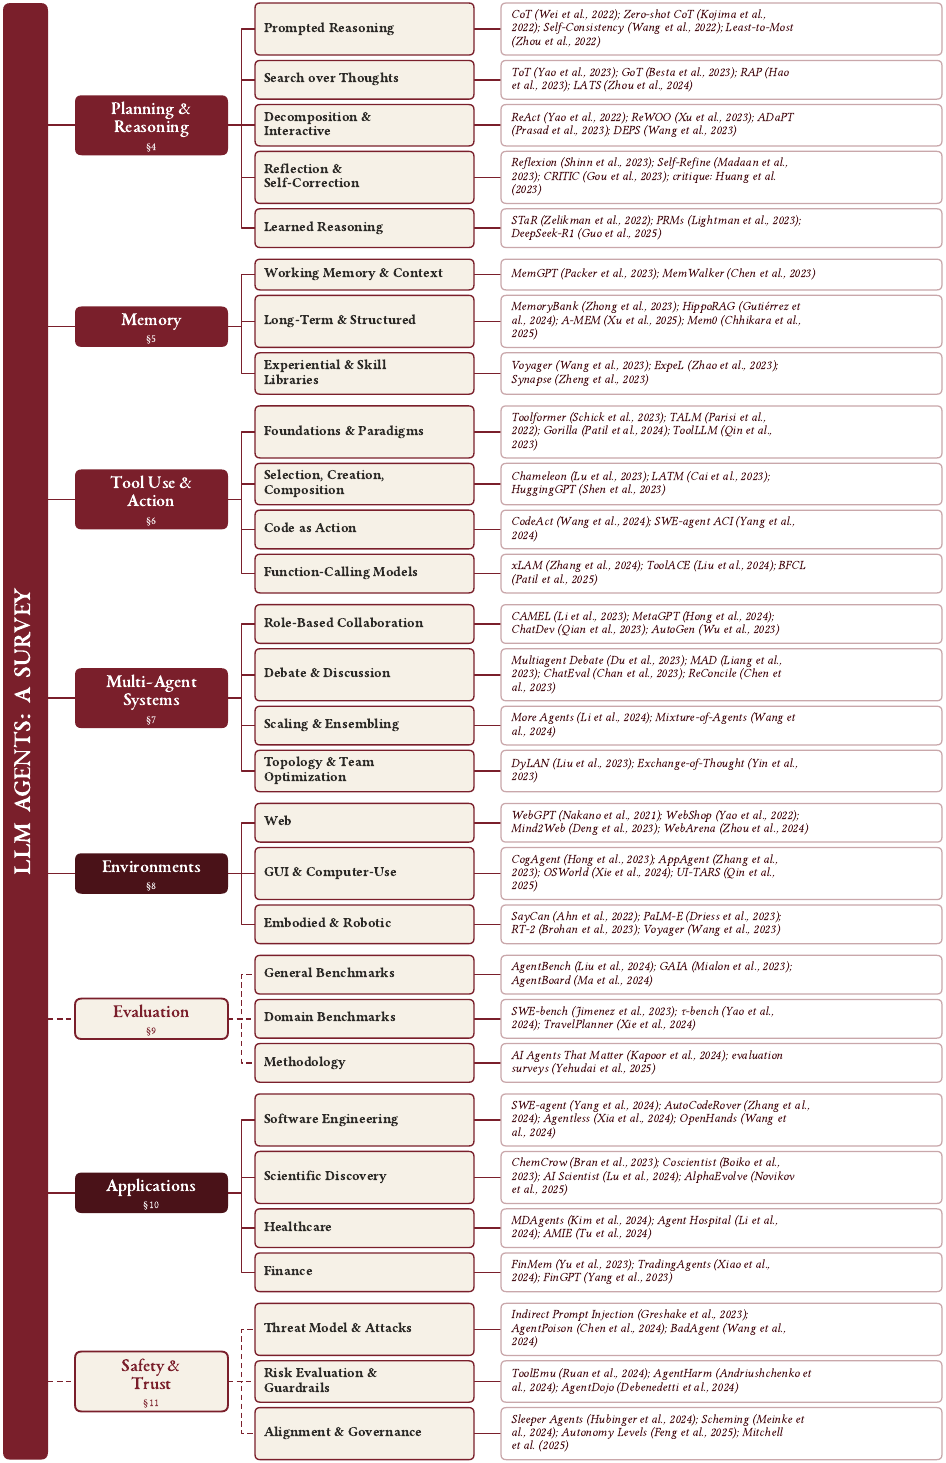
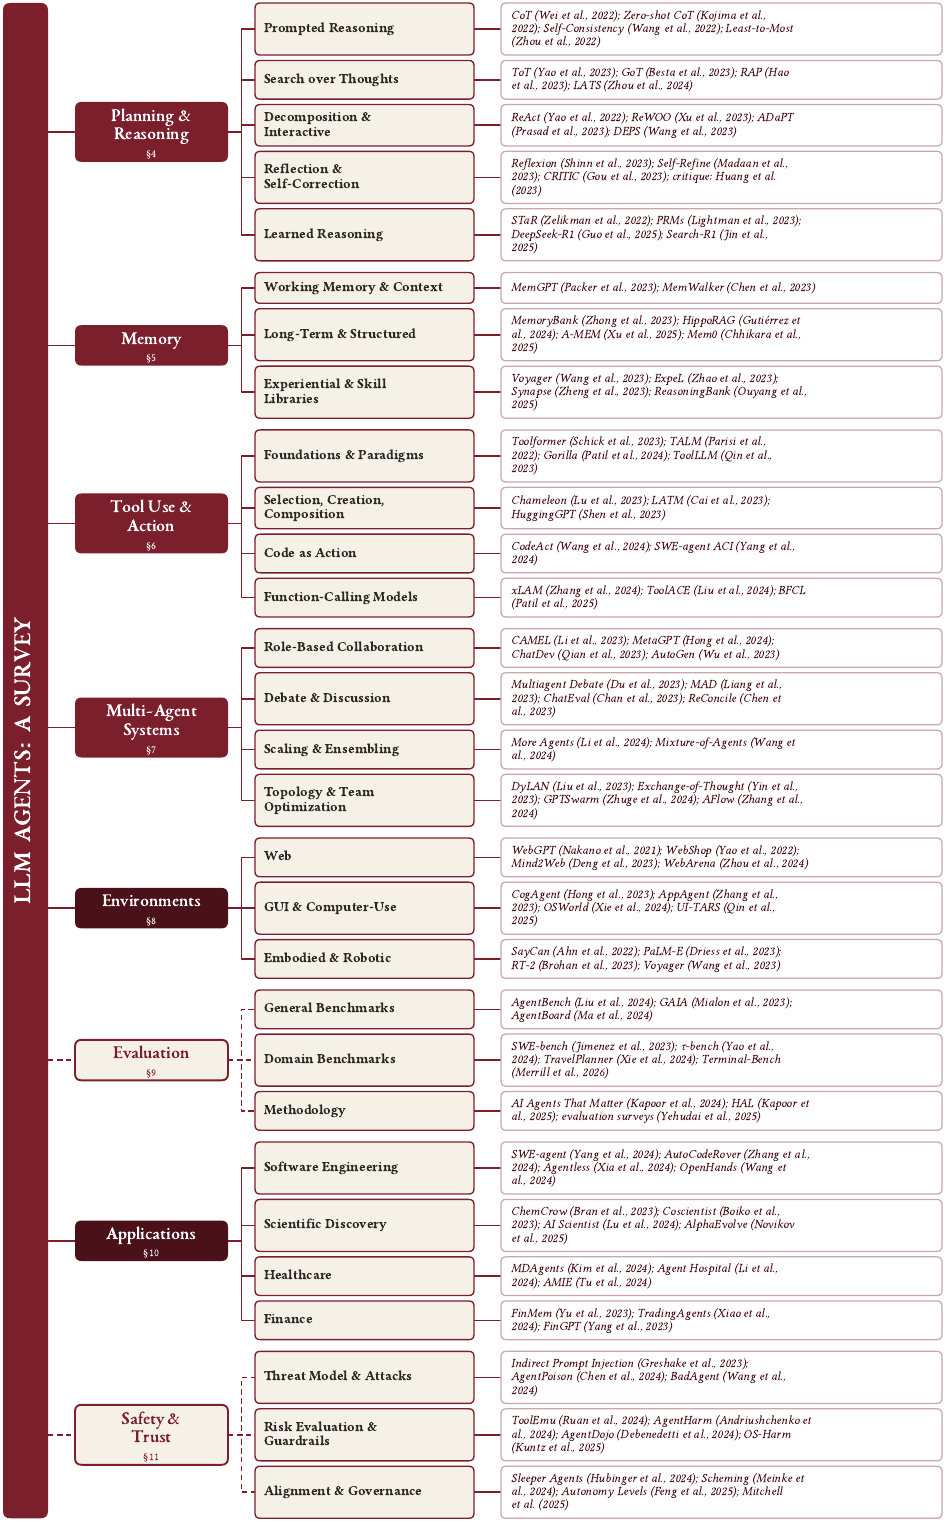
README readability overhaul: collapse each section into a <details> toggle (211 papers), add legend + back-to-top links + curated-vs-cited(228) note; rename Citing -> Citation with month=jul; explicit July 2026 in Updates; refresh taxonomy image to current survey Figure 4; en-dash -> hyphen

diff --git a/README.md b/README.md
@@ -17,7 +17,9 @@ Companion repository to the survey <i>“LLM Agents: A Survey”</i></p>
 
 This repository collects must-read papers on **LLM-based agents**: language models equipped with planning, memory, tool use, and multi-agent coordination to pursue goals over long horizons. Papers follow the taxonomy of the accompanying survey, covering the core components of an agent, the environments and applications they are deployed in, and the cross-cutting concerns of evaluation and safety. Each entry links to the paper and, where an official implementation exists, to its code.
 
-> ⭐ marks the [Starter Kit](#starter-kit): the ten papers to read first.
+This is a **curated selection of 211 papers**; the survey itself cites 228 references. Sections are collapsed by default. Click **Show N papers** to expand.
+
+> **Legend:** ⭐ = [Starter Kit](#starter-kit) pick (read these first) · `[code]` = link to an official implementation.
 
 <a id="starter-kit"></a>
 ## ⭐ Starter Kit
@@ -59,7 +61,10 @@ New to the area? These ten papers give you the backbone of the field.
 
 <a id="surveys"></a>
 ### 📚 Surveys & Position Papers (27)
-*Corresponds to §1–§3 (Introduction, Background, Taxonomy).*
+*Corresponds to §1-§3 (Introduction, Background, Taxonomy).*
+
+<details>
+<summary><b>Show 27 papers</b></summary>
 
 - **[A Survey on Large Language Model based Autonomous Agents](https://arxiv.org/abs/2308.11432)** (Wang et al., arXiv 2023) - *The canonical, most-cited general-purpose LLM-agent survey.* ⭐ [[code](https://github.com/Paitesanshi/LLM-Agent-Survey)]
 - **[The Rise and Potential of Large Language Model Based Agents: A Survey](https://arxiv.org/abs/2309.07864)** (Xi et al., arXiv 2023) - *Co-foundational with Wang et al. 2023 as one of the two seminal general surveys.* [[code](https://github.com/WooooDyy/LLM-Agent-Paper-List)]
@@ -89,9 +94,16 @@ New to the area? These ten papers give you the backbone of the field.
 - **[Deep Research Agents: A Systematic Examination and Roadmap](https://arxiv.org/abs/2506.18096)** (Huang et al., arXiv 2025) - *First systematic survey of long-horizon autonomous research agents (search, tool use, report synthesis).*
 - **[A Survey of AI Agent Protocols](https://arxiv.org/abs/2504.16736)** (Yang et al., arXiv 2025) - *Maps the emerging protocol layer (MCP, A2A, and successors) and proposes evaluation dimensions for agent interoperability standards.*
 
+</details>
+
+<sub><a href="#contents">↑ Back to Contents</a></sub>
+
 <a id="architectures"></a>
 ### 🏗️ Agent Architectures & Frameworks (18)
 *Corresponds to §2 (Background) and the running examples throughout.*
+
+<details>
+<summary><b>Show 18 papers</b></summary>
 
 - **[Auto-GPT for Online Decision Making: Benchmarks and Additional Opinions](https://arxiv.org/abs/2306.02224)** (Yang et al., arXiv 2023) - *Only peer-reviewed-adjacent empirical study of the widely-influential (but paper-less) AutoGPT autonomous-agent design pattern.* [[code](https://github.com/younghuman/LLMAgent)]
 - **[AgentBench: Evaluating LLMs as Agents](https://arxiv.org/abs/2308.03688)** (Liu et al., ICLR 2024) - *The standard reference benchmark for measuring general single-agent capability across heterogeneous environments.* ⭐ [[code](https://github.com/THUDM/AgentBench)]
@@ -112,11 +124,18 @@ New to the area? These ten papers give you the backbone of the field.
 - **[Gemini 2.5: Pushing the Frontier with Advanced Reasoning, Multimodality, Long Context, and Next Generation Agentic Capabilities](https://arxiv.org/abs/2507.06261)** (Comanici et al., arXiv 2025) - *Frontier model report that treats agentic tool use and computer operation as headline capabilities.*
 - **[Kimi K2: Open Agentic Intelligence](https://arxiv.org/abs/2507.20534)** (Kimi Team, arXiv 2025) - *Flagship open model built explicitly around agentic post-training at scale.* [[code](https://github.com/MoonshotAI/Kimi-K2)]
 
+</details>
+
+<sub><a href="#contents">↑ Back to Contents</a></sub>
+
 ## 🧱 Part I: Core Components
 
 <a id="planning"></a>
 ### 🧠 Planning & Reasoning (21)
 *Corresponds to §4 (Planning and Reasoning).*
+
+<details>
+<summary><b>Show 21 papers</b></summary>
 
 - **[Chain-of-Thought Prompting Elicits Reasoning in Large Language Models](https://arxiv.org/abs/2201.11903)** (Wei et al., NeurIPS 2022) - *The foundational technique underlying virtually all LLM-agent reasoning/planning modules; the starting point for the whole CoT/ToT/ReAct lineage.*
 - **[Self-Consistency Improves Chain of Thought Reasoning in Language Models](https://arxiv.org/abs/2203.11171)** (Wang et al., ICLR 2023) - *Standard inference-time ensembling/verification strategy widely reused inside agent reasoning and planning pipelines.*
@@ -140,9 +159,16 @@ New to the area? These ten papers give you the backbone of the field.
 - **[Search-R1: Training LLMs to Reason and Leverage Search Engines with Reinforcement Learning](https://arxiv.org/abs/2503.09516)** (Jin et al., arXiv 2025) - *Canonical agentic-RL result: the model learns to interleave search-engine calls with its own reasoning from outcome rewards alone.* [[code](https://github.com/PeterGriffinJin/Search-R1)]
 - **[ReTool: Reinforcement Learning for Strategic Tool Use in LLMs](https://arxiv.org/abs/2504.11536)** (Feng et al., arXiv 2025) - *RL that teaches a reasoning model when and how to invoke a code interpreter mid-derivation.*
 
+</details>
+
+<sub><a href="#contents">↑ Back to Contents</a></sub>
+
 <a id="memory"></a>
 ### 💾 Memory (18)
 *Corresponds to §5 (Memory).*
+
+<details>
+<summary><b>Show 18 papers</b></summary>
 
 - **[RET-LLM: Towards a General Read-Write Memory for Large Language Models](https://arxiv.org/abs/2305.14322)** (Modarressi et al., arXiv 2023) - *Early and influential structured/triplet-based read-write memory design, a precursor to graph- and KG-based agent memory systems.*
 - **[MemoryBank: Enhancing Large Language Models with Long-Term Memory](https://arxiv.org/abs/2305.10250)** (Zhong et al., AAAI 2024) - *One of the first systems to bring a psychologically grounded (human-memory-inspired) forgetting/consolidation mechanism into LLM agent memory.* [[code](https://github.com/zhongwanjun/MemoryBank-SiliconFriend)]
@@ -163,9 +189,16 @@ New to the area? These ten papers give you the backbone of the field.
 - **[LongMemEval: Benchmarking Chat Assistants on Long-Term Interactive Memory](https://arxiv.org/abs/2410.10813)** (Wu et al., ICLR 2025) - *Decomposes long-term interactive memory into five separately testable abilities.* [[code](https://github.com/xiaowu0162/LongMemEval)]
 - **[ReasoningBank: Scaling Agent Self-Evolving with Reasoning Memory](https://arxiv.org/abs/2509.25140)** (Ouyang et al., arXiv 2025) - *Distills strategy-level memory from both successful and failed trajectories so an agent self-evolves over a task stream.*
 
+</details>
+
+<sub><a href="#contents">↑ Back to Contents</a></sub>
+
 <a id="tools"></a>
 ### 🔧 Tool Use (17)
 *Corresponds to §6 (Tool Use and Action Execution).*
+
+<details>
+<summary><b>Show 17 papers</b></summary>
 
 - **[TALM: Tool Augmented Language Models](https://arxiv.org/abs/2205.12255)** (Parisi et al., arXiv 2022) - *Early, influential formulation of self-supervised bootstrapping for tool use in LMs, directly anticipating Toolformer's self-supervised approach.*
 - **[API-Bank: A Comprehensive Benchmark for Tool-Augmented LLMs](https://arxiv.org/abs/2304.08244)** (Li et al., EMNLP 2023) - *One of the earliest and most cited dedicated benchmarks for evaluating and training tool-augmented dialogue LLMs.* [[code](https://github.com/AlibabaResearch/DAMO-ConvAI)]
@@ -185,9 +218,16 @@ New to the area? These ten papers give you the backbone of the field.
 - **[The Berkeley Function Calling Leaderboard (BFCL): From Tool Use to Agentic Evaluation of Large Language Models](https://openreview.net/forum?id=2GmDdhBdDk)** (Patil et al., ICML 2025) - *The de facto standard leaderboard/benchmark for comparing LLM function-calling and tool-use performance, referenced by nearly all subsequent function-calling papers.* [[code](https://github.com/ShishirPatil/gorilla)]
 - **[Model Context Protocol (MCP): Landscape, Security Threats, and Future Research Directions](https://arxiv.org/abs/2503.23278)** (Hou et al., arXiv 2025) - *Security analysis of the MCP ecosystem across the server lifecycle; the reference for protocol-layer supply-chain risk.*
 
+</details>
+
+<sub><a href="#contents">↑ Back to Contents</a></sub>
+
 <a id="multi-agent"></a>
 ### 🤝 Multi-Agent Systems (22)
 *Corresponds to §7 (Multi-Agent Systems).*
+
+<details>
+<summary><b>Show 22 papers</b></summary>
 
 - **[CAMEL: Communicative Agents for "Mind" Exploration of Large Language Model Society](https://arxiv.org/abs/2303.17760)** (Li et al., NeurIPS 2023) - *One of the earliest and most cited frameworks establishing autonomous agent-to-agent cooperation via role-play.* [[code](https://github.com/camel-ai/camel)]
 - **[Improving Factuality and Reasoning in Language Models through Multiagent Debate](https://arxiv.org/abs/2305.14325)** (Du et al., ICML 2024) - *Seminal multi-agent debate paper popularizing 'society of minds'-style debate as a test-time technique.* [[code](https://github.com/composable-models/llm_multiagent_debate)]
@@ -212,11 +252,18 @@ New to the area? These ten papers give you the backbone of the field.
 - **[Scaling Large Language Model-based Multi-Agent Collaboration](https://arxiv.org/abs/2406.07155)** (Qian et al., arXiv 2024) - *Scales collaboration to 1000+ agents in explicit topologies; irregular graphs outperform regular ones (a collaborative scaling result).*
 - **[AFlow: Automating Agentic Workflow Generation](https://arxiv.org/abs/2410.10762)** (Zhang et al., ICLR 2025) - *Searches over code-represented workflows to discover agentic pipelines automatically.*
 
+</details>
+
+<sub><a href="#contents">↑ Back to Contents</a></sub>
+
 ## 🌍 Part II: Agents in Context
 
 <a id="environments"></a>
 ### 🌐 Interactive Environments (23)
 *Corresponds to §8 (Agents in Interactive Environments).*
+
+<details>
+<summary><b>Show 23 papers</b></summary>
 
 - **[Do As I Can, Not As I Say: Grounding Language in Robotic Affordances](https://arxiv.org/abs/2204.01691)** (al., CoRL 2022) - *Foundational demonstration of LLM-as-planner grounded by real-world affordances for embodied robotic agents.* [[code](https://github.com/google-research/google-research/tree/master/saycan)]
 - **[Inner Monologue: Embodied Reasoning through Planning with Language Models](https://arxiv.org/abs/2207.05608)** (al., CoRL 2022) - *Established the closed-loop, feedback-grounded planning pattern underlying subsequent embodied/GUI agent architectures.*
@@ -242,9 +289,16 @@ New to the area? These ten papers give you the backbone of the field.
 - **[π0: A Vision-Language-Action Flow Model for General Robot Control](https://arxiv.org/abs/2410.24164)** (Black et al., arXiv 2024) - *Flow-matching action expert on a pretrained VLM, controlling many robot embodiments.* [[code](https://github.com/Physical-Intelligence/openpi)]
 - **[Tongyi DeepResearch Technical Report](https://arxiv.org/abs/2510.24701)** (Tongyi DeepResearch Team, arXiv 2025) - *Open end-to-end deep-research agent model for long-horizon web research and synthesis.* [[code](https://github.com/Alibaba-NLP/DeepResearch)]
 
+</details>
+
+<sub><a href="#contents">↑ Back to Contents</a></sub>
+
 <a id="applications"></a>
 ### 🚀 Applications (23)
 *Corresponds to §10 (Applications).*
+
+<details>
+<summary><b>Show 23 papers</b></summary>
 
 - **[AutoCodeRover: Autonomous Program Improvement](https://arxiv.org/abs/2404.05427)** (Zhang et al., arXiv 2024) - *One of the first cost-efficient autonomous program-repair agents grounded in structured code search.* [[code](https://github.com/nus-apr/auto-code-rover)]
 - **[Agentless: Demystifying LLM-based Software Engineering Agents](https://arxiv.org/abs/2407.01489)** (Xia et al., arXiv 2024) - *Influential counter-narrative showing simpler non-agentic pipelines can rival complex agents.* [[code](https://github.com/OpenAutoCoder/Agentless)]
@@ -270,11 +324,18 @@ New to the area? These ten papers give you the backbone of the field.
 - **[SWE-Lancer: Can Frontier LLMs Earn $1 Million from Real-World Freelance Software Engineering?](https://arxiv.org/abs/2502.12115)** (Miserendino et al., arXiv 2025) - *Prices coding-agent competence in real freelance dollars; frontier models leave most of the posted value unearned.* [[code](https://github.com/openai/SWELancer-Benchmark)]
 - **[AgentClinic: A Multimodal Agent Benchmark to Evaluate AI in Simulated Clinical Environments](https://arxiv.org/abs/2405.07960)** (Schmidgall et al., arXiv 2024) - *Multimodal benchmark of simulated clinical settings for doctor-patient agent interaction.*
 
+</details>
+
+<sub><a href="#contents">↑ Back to Contents</a></sub>
+
 ## ⚖️ Part III: Cross-Cutting Concerns
 
 <a id="evaluation"></a>
 ### 📊 Evaluation & Benchmarks (15)
 *Corresponds to §9 (Evaluation and Benchmarks).*
+
+<details>
+<summary><b>Show 15 papers</b></summary>
 
 - **[GAIA: a benchmark for General AI Assistants](https://arxiv.org/abs/2311.12983)** (Mialon et al., ICLR 2024) - *Reference benchmark for generalist, tool-using agent assistants; underlies popular public leaderboards tracking frontier agent progress.*
 - **[SWE-bench: Can Language Models Resolve Real-World GitHub Issues?](https://arxiv.org/abs/2310.06770)** (Jimenez et al., ICLR 2024) - *De facto standard benchmark for coding/software-engineering agents; spawned the SWE-bench Verified/Lite/Live/Multimodal family.* [[code](https://github.com/SWE-bench/SWE-bench)]
@@ -292,9 +353,16 @@ New to the area? These ten papers give you the backbone of the field.
 - **[Holistic Agent Leaderboard: The Missing Infrastructure for AI Agent Evaluation](https://arxiv.org/abs/2510.11977)** (Kapoor et al., arXiv 2025) - *Standardized harness that re-evaluates agents at scale with cost reported alongside accuracy.*
 - **[Terminal-Bench: Benchmarking Agents on Hard, Realistic Tasks in Command Line Interfaces](https://arxiv.org/abs/2601.11868)** (Merrill et al., arXiv 2026) - *Hard, realistic command-line tasks; a de facto standard for terminal agents.* [[code](https://github.com/laude-institute/terminal-bench)]
 
+</details>
+
+<sub><a href="#contents">↑ Back to Contents</a></sub>
+
 <a id="safety"></a>
 ### 🛡️ Safety & Alignment (27)
 *Corresponds to §11 (Safety, Security, and Trustworthiness).*
+
+<details>
+<summary><b>Show 27 papers</b></summary>
 
 - **[Not what you've signed up for: Compromising Real-World LLM-Integrated Applications with Indirect Prompt Injection](https://arxiv.org/abs/2302.12173)** (Greshake et al., arXiv 2023) - *The founding paper of the indirect prompt injection threat model that underlies almost all later LLM-agent security research.* ⭐ [[code](https://github.com/greshake/llm-security)]
 - **[AgentDojo: A Dynamic Environment to Evaluate Prompt Injection Attacks and Defenses for LLM Agents](https://arxiv.org/abs/2406.13352)** (Debenedetti et al., NeurIPS 2024) - *The most widely used standardized testbed for measuring agent robustness to prompt-injection attacks and defenses.* [[code](https://github.com/ethz-spylab/agentdojo)]
@@ -324,7 +392,11 @@ New to the area? These ten papers give you the backbone of the field.
 - **[OS-Harm: A Benchmark for Measuring Safety of Computer Use Agents](https://arxiv.org/abs/2506.14866)** (Kuntz et al., arXiv 2025) - *Extends agent-safety measurement to computer-use agents operating real interfaces.*
 - **[The 2025 AI Agent Index: Documenting Technical and Safety Features of Deployed Agentic AI Systems](https://arxiv.org/abs/2602.17753)** (Staufer et al., FAccT 2026) - *Empirical index of 30 deployed agentic systems; documents a capability-vs-safety transparency gap.*
 
-## 📄 Citing
+</details>
+
+<sub><a href="#contents">↑ Back to Contents</a></sub>
+
+## 📄 Citation
 
 If this list or the survey is useful to you, please cite:
 
@@ -333,6 +405,7 @@ If this list or the survey is useful to you, please cite:
   title  = {LLM Agents: A Survey},
   author = {Lee, Jungseob},
   year   = {2026},
+  month  = jul,
   note   = {Manuscript. arXiv link to appear.}
 }
 ```
@@ -347,5 +420,5 @@ Released under the [MIT License](LICENSE).
 
 ## 🗓️ Updates
 
-- **2026-07**: Literature-update pass: +27 papers (agentic RL, protocols, deep research, frontier evaluation and safety), 184 to 211.
-- **2026-07**: Initial release. 184 annotated papers, organized by the survey's taxonomy.
+- **July 2026**: Literature-update pass: +27 papers (agentic RL, protocols, deep research, frontier evaluation and safety), 184 to 211.
+- **July 2026**: Initial release. 184 annotated papers, organized by the survey's taxonomy.